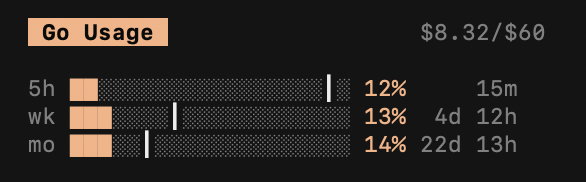
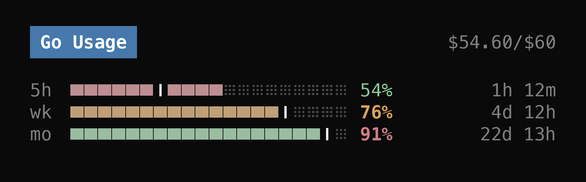
docs: regenerate preview images
Add a small Pillow renderer that reproduces the sidebar's character grid and current colours, and regenerate the dark/light previews with illustrative values that exercise all three channels.

diff --git a/scripts/render_preview.py b/scripts/render_preview.py
@@ -1,0 +1,217 @@
+#!/usr/bin/env python3
+"""Render the README preview images.
+
+These are renderings, not terminal screenshots: the sidebar is a fixed
+character grid, so drawing the same cells with the same colours produces a
+stable asset without opening a TUI. Keep the constants below in sync with
+tui.tsx (BADGE_BG / BADGE_INK, FILL_SATURATION / TEXT_SATURATION, the quota and
+pace thresholds, and the row geometry).
+
+Usage:
+    python3 scripts/render_preview.py
+"""
+
+from __future__ import annotations
+
+import colorsys
+from pathlib import Path
+
+from PIL import Image, ImageDraw, ImageFont
+
+# --- geometry (logical pixels; the image is supersampled before saving) -----
+WIDTH, HEIGHT = 586, 182
+SCALE = 3
+LEFT = 30
+BADGE_TOP = 26
+BADGE_HEIGHT = 32
+BAR_X = 70
+BAR_WIDTH = 278
+BAR_HEIGHT = 14
+CELLS = 20
+PCT_X = 360
+RESET_RIGHT = 556
+ROW_Y = (90, 112, 134)
+
+# --- colours shared with tui.tsx -------------------------------------------
+BADGE_BG = "#4678ac"
+BADGE_INK = "#ffffff"
+FILL_SATURATION = 0.4
+TEXT_SATURATION = 0.7
+
+THEMES = {
+    "dark": {
+        "bg": "#0a0a0a",
+        "muted": "#808080",
+        "strong": "#eeeeee",
+        "success": "#7fd88f",
+        "warning": "#f5a742",
+        "error": "#e06c75",
+    },
+    "light": {
+        "bg": "#ffffff",
+        "muted": "#8a8a8a",
+        "strong": "#1a1a1a",
+        "success": "#3d9a57",
+        "warning": "#d68c27",
+        "error": "#d1383d",
+    },
+}
+
+# Illustrative values chosen to show every channel at once:
+#   5h green text / red bar, wk yellow text / yellow bar, mo red text / green bar.
+ROWS = (
+    {"label": "5h", "pct": 54, "theory": 32, "reset": "1h 12m"},
+    {"label": "wk", "pct": 76, "theory": 77, "reset": "4d 12h"},
+    {"label": "mo", "pct": 91, "theory": 94, "reset": "22d 13h"},
+)
+MONTH_TOTAL = "$54.60/$60"
+
+FONT_REGULAR = "/System/Library/Fonts/Menlo.ttc"
+FONT_BOLD = "/System/Library/Fonts/Menlo.ttc"
+FONT_FALLBACKS = (
+    "/System/Library/Fonts/SFNSMono.ttf",
+    "/usr/share/fonts/truetype/dejavu/DejaVuSansMono.ttf",
+    "/usr/share/fonts/truetype/liberation/LiberationMono-Regular.ttf",
+)
+
+
+def hex_to_rgb(value: str) -> tuple[int, int, int]:
+    value = value.lstrip("#")
+    return tuple(int(value[i : i + 2], 16) for i in (0, 2, 4))
+
+
+def rgb_to_hex(rgb: tuple[float, float, float]) -> str:
+    return "#%02x%02x%02x" % tuple(round(max(0, min(255, c))) for c in rgb)
+
+
+def desaturate(value: str, keep: float) -> str:
+    """Scale HSL saturation, preserving hue and lightness (mirrors tui.tsx)."""
+    r, g, b = (c / 255 for c in hex_to_rgb(value))
+    h, l, s = colorsys.rgb_to_hls(r, g, b)
+    r, g, b = colorsys.hls_to_rgb(h, l, max(0.0, min(1.0, s * keep)))
+    return rgb_to_hex((r * 255, g * 255, b * 255))
+
+
+def blend(a: str, b: str, ratio: float) -> str:
+    """Mix two hex colours; ratio is the share of ``a``."""
+    ac, bc = hex_to_rgb(a), hex_to_rgb(b)
+    return rgb_to_hex(tuple(ac[i] * ratio + bc[i] * (1 - ratio) for i in range(3)))
+
+
+def quota_level(pct: float) -> int:
+    return 2 if pct >= 90 else 1 if pct >= 75 else 0
+
+
+def pace_level(pct: float, theory: float) -> int:
+    if theory < 5 and pct < 10:
+        return 0
+    if pct > theory:
+        return 2
+    return 1 if theory - pct <= 2 else 0
+
+
+def tone(theme: dict[str, str], level: int) -> str:
+    return theme[("success", "warning", "error")[level]]
+
+
+def load_font(size: int, bold: bool = False) -> ImageFont.FreeTypeFont:
+    path = FONT_BOLD if bold else FONT_REGULAR
+    try:
+        return ImageFont.truetype(path, size, index=1 if bold else 0)
+    except OSError:
+        for fallback in FONT_FALLBACKS:
+            try:
+                return ImageFont.truetype(fallback, size)
+            except OSError:
+                continue
+    raise OSError("no monospace font found")
+
+
+def render(mode: str, out: Path) -> None:
+    theme = THEMES[mode]
+    s = SCALE
+    image = Image.new("RGB", (WIDTH * s, HEIGHT * s), theme["bg"])
+    draw = ImageDraw.Draw(image)
+    font = load_font(18 * s)
+    font_bold = load_font(18 * s, bold=True)
+
+    def xy(x: float, y: float) -> tuple[float, float]:
+        return x * s, y * s
+
+    # Header badge.
+    badge_w = draw.textlength("Go Usage", font=font_bold) / s + 20
+    draw.rectangle(
+        [*xy(LEFT, BADGE_TOP), *xy(LEFT + badge_w, BADGE_TOP + BADGE_HEIGHT)],
+        fill=BADGE_BG,
+    )
+    draw.text(
+        xy(LEFT + 10, BADGE_TOP + BADGE_HEIGHT / 2),
+        "Go Usage",
+        font=font_bold,
+        fill=BADGE_INK,
+        anchor="lm",
+    )
+    draw.text(
+        xy(RESET_RIGHT, BADGE_TOP + BADGE_HEIGHT / 2),
+        MONTH_TOTAL,
+        font=font,
+        fill=theme["muted"],
+        anchor="rm",
+    )
+
+    # Meter rows.
+    track = blend(theme["muted"], theme["bg"], 0.55)
+    cell_w = BAR_WIDTH / CELLS
+    for row, y in zip(ROWS, ROW_Y):
+        draw.text(xy(LEFT, y), row["label"], font=font, fill=theme["muted"], anchor="lm")
+
+        fill_cells = max(0, min(CELLS, round(row["pct"] / 100 * CELLS)))
+        marker = max(0, min(CELLS - 1, round(row["theory"] / 100 * (CELLS - 1))))
+        bar_top = y - BAR_HEIGHT / 2
+        fill_tone = desaturate(tone(theme, pace_level(row["pct"], row["theory"])), FILL_SATURATION)
+        text_tone = desaturate(tone(theme, quota_level(row["pct"])), TEXT_SATURATION)
+
+        for i in range(CELLS):
+            x0 = BAR_X + i * cell_w
+            if i == marker:
+                cx = x0 + cell_w / 2
+                draw.rectangle(
+                    [*xy(cx - 1, bar_top + 1), *xy(cx + 1, bar_top + BAR_HEIGHT - 1)],
+                    fill=theme["strong"],
+                )
+            elif i < fill_cells:
+                draw.rectangle(
+                    [*xy(x0 + 0.5, bar_top + 1.5), *xy(x0 + cell_w - 0.5, bar_top + BAR_HEIGHT - 1.5)],
+                    fill=fill_tone,
+                )
+            else:
+                for dx in (2, 6, 10):
+                    for dy in (2, 6, 10):
+                        draw.rectangle(
+                            [*xy(x0 + dx, bar_top + dy), *xy(x0 + dx + 1.8, bar_top + dy + 1.8)],
+                            fill=track,
+                        )
+
+        draw.text(
+            xy(PCT_X, y),
+            f"{row['pct']:.0f}%",
+            font=font_bold if quota_level(row["pct"]) > 0 else font,
+            fill=text_tone,
+            anchor="lm",
+        )
+        draw.text(xy(RESET_RIGHT, y), row["reset"], font=font, fill=theme["muted"], anchor="rm")
+
+    image.resize((WIDTH, HEIGHT), Image.LANCZOS).save(out, optimize=True)
+    print(f"wrote {out}")
+
+
+def main() -> None:
+    root = Path(__file__).resolve().parent.parent
+    assets = root / "assets"
+    assets.mkdir(exist_ok=True)
+    for mode in ("dark", "light"):
+        render(mode, assets / f"{mode}.png")
+
+
+if __name__ == "__main__":
+    main()

diff --git a/README.md b/README.md
@@ -12,12 +12,14 @@ A lightweight [OpenCode](https://opencode.ai) TUI sidebar plugin that displays y
 | :---: | :---: |
 | ![Dark Mode](./assets/dark.png) | ![Light Mode](./assets/light.png) |
 
-```text
- Go Usage                   $8.32/$60
+Preview values are illustrative, not live account data. Regenerate both images with `python3 scripts/render_preview.py` (requires Pillow).
 
-5h ██░░░░░░░░░░░░░░░░┃░ 12%     15m
-wk ███░░░░┃░░░░░░░░░░░░ 13%  4d 12h
-mo ███░░┃░░░░░░░░░░░░░░ 14% 22d 13h
+```text
+ Go Usage                   $54.60/$60
+
+5h ██████┃████░░░░░░░░░ 54%  1h 12m
+wk ███████████████┃░░░░ 76%  4d 12h
+mo ██████████████████┃░ 91% 22d 13h
 ```
 
 - **Header (`Go Usage` + `$used/$limit`)**: Monthly spent and total cap, on a blue brand badge (`#4678ac` with white ink, 4.62:1 contrast) so the header never competes with a status colour.
